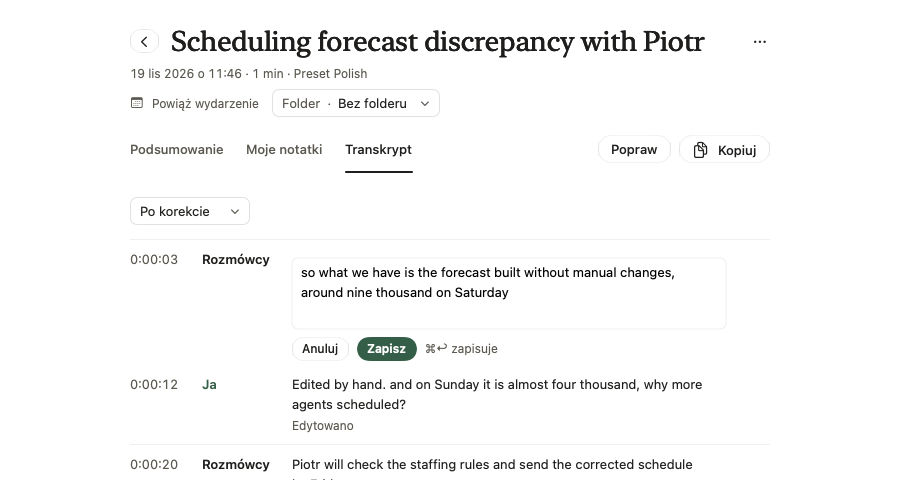
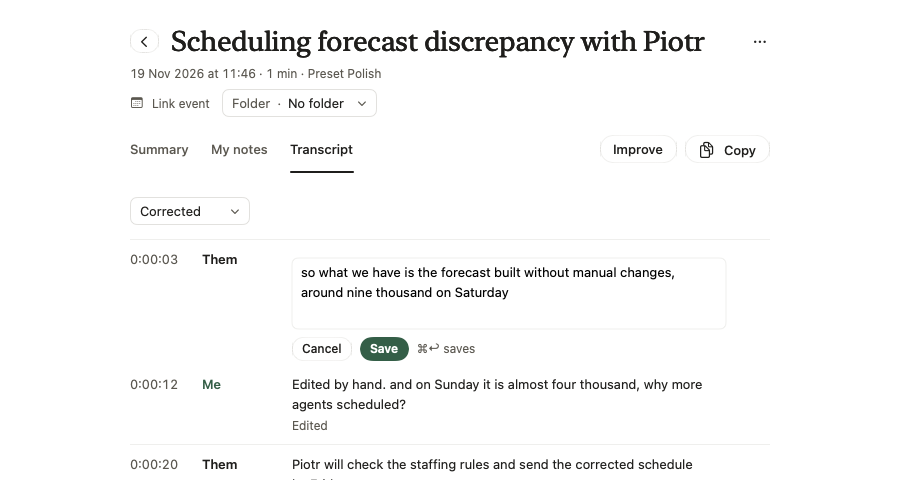
docs: README po angielsku z naciskiem na język użytkownika (TASK-120)
README w jednym języku: angielski, z sekcją o wyborze języka (15 języków
w presecie, osobny język notatki, edytowalna lista przerywników). Zrzuty
z angielskim interfejsem, spójne z angielską treścią danych przykładowych
i angielskim mottem.

diff --git a/README.md b/README.md
@@ -1,185 +1,180 @@
 <p align="center">
   <picture>
     <source media="(prefers-color-scheme: dark)" srcset="docs/readme/logo/logo-pionowe-ciemne.svg">
-    <img src="docs/readme/logo/logo-pionowe-jasne.svg" alt="Logo Yascribe przedstawia złote pióro między dwiema falami dźwięku i motto „What's it like to be a scribe?”" width="300">
+    <img src="docs/readme/logo/logo-pionowe-jasne.svg" alt="Yascribe logo: a golden quill between two sound waves, with the motto “What's it like to be a scribe?”" width="300">
   </picture>
 </p>
 
-# Yascribe: skryba, który rozumie po polsku
+# Yascribe: a scribe that understands your language
 
-Natywna aplikacja na macOS do notatek ze spotkań. Nagrywa rozmowę na Macu, sporządza transkrypcję po polsku, rozpoznaje rozmówców i przygotowuje notatkę. Możesz też zadawać pytania o jedno spotkanie lub całe archiwum i dyktować tekst w dowolnej aplikacji. **Do rozmowy nie dołącza żaden bot.**
+A native macOS app for meeting notes. It records the call on your Mac, transcribes it in the language you choose, tells speakers apart and writes the notes. You can ask questions about one meeting or your whole archive, and dictate text into any app. **No bot joins the call.**
 
-*English: a native macOS meeting-notes app that records system audio and microphone as two separate tracks, transcribes locally or via API, tells speakers apart, writes notes with a model you choose, answers questions about your meetings and does system-wide dictation. You can play any transcript segment and fix it by hand. The app UI is in Polish and English (Auto follows macOS); read-only access for AI agents via MCP is optional.*
-
-Sam wybierasz język i decydujesz, czy przetwarzać dane lokalnie, czy przez API. Aplikacja nagrywa dźwięk na dwóch osobnych ścieżkach i jest wolnym oprogramowaniem (GPL-3.0). To jednoosobowy projekt w trakcie rozwoju (wersje alfa 0.1.x). Interfejs jest po polsku i po angielsku, a dokumentacja w repozytorium jest po polsku.
+You choose the language and whether your data is processed locally or through an API. The app records audio on two separate tracks and is free software (GPL-3.0). It is a one-person project in active development (alpha releases 0.1.x). The app interface is available in English and Polish; the developer documentation in the repository is in Polish.
 
 <table>
   <tr>
     <td width="50%">
       <picture>
         <source media="(prefers-color-scheme: dark)" srcset="docs/readme/img/meetings-next-dark.png">
-        <img src="docs/readme/img/meetings-next-light.png" alt="Lista spotkań z kartą najbliższego spotkania z kalendarza, folderami i polem do zadawania pytań">
+        <img src="docs/readme/img/meetings-next-light.png" alt="Meeting list with the next calendar meeting, folders and a question field">
       </picture>
-      <b>Najbliższe spotkanie.</b> Na karcie spotkania z kalendarza Apple wystarczy kliknąć „Nagraj”. Na liście są foldery spotkań, a na dole pole „Zapytaj: wszystkie spotkania”.
+      <b>Your next meeting.</b> Click “Record” on the card for the next Apple Calendar meeting. The list shows meeting folders, with an “Ask about All meetings” field at the bottom.
     </td>
     <td width="50%">
       <picture>
         <source media="(prefers-color-scheme: dark)" srcset="docs/readme/img/meeting-summary-dark.png">
-        <img src="docs/readme/img/meeting-summary-light.png" alt="Notatka ze spotkania z zakładkami „Podsumowanie”, „Moje notatki” i „Transkrypt”">
+        <img src="docs/readme/img/meeting-summary-light.png" alt="Meeting notes with the “Summary”, “My notes” and “Transcript” tabs">
       </picture>
-      <b>Po otwarciu spotkania od razu widzisz notatkę.</b> Z podsumowania dowiesz się, kto odpowiada za każde zadanie i z czego ono wynika. „Kopiuj” kopiuje notatkę, a „Popraw…” pozwala wygenerować ją ponownie innym modelem.
+      <b>Open a meeting and see the notes right away.</b> The summary shows who owns each task and where it came from. “Copy” copies the notes, and “Improve…” regenerates them with a different model.
     </td>
   </tr>
   <tr>
     <td width="50%">
       <picture>
         <source media="(prefers-color-scheme: dark)" srcset="docs/readme/img/speakers-transcript-dark.png">
-        <img src="docs/readme/img/speakers-transcript-light.png" alt="Transkrypcja z rozmówcami oznaczonymi kolorami i listą uczestników „Kto to jest?”">
+        <img src="docs/readme/img/speakers-transcript-light.png" alt="Transcript with color-coded speakers and the “Who is this?” list of participants">
       </picture>
-      <b>Kto mówi?</b> Każdy rozmówca ma numer i kolor. Kliknij jego oznaczenie, by otworzyć listę „Kto to jest?” z uczestnikami z kalendarza i osobami z poprzednich spotkań.
+      <b>Who is speaking?</b> Each speaker has a number and a color. Click the label to open “Who is this?” with calendar attendees and people from earlier meetings.
     </td>
     <td width="50%">
       <picture>
         <source media="(prefers-color-scheme: dark)" srcset="docs/readme/img/speakers-summary-dark.png">
-        <img src="docs/readme/img/speakers-summary-light.png" alt="Notatka z imionami rozmówców, które można kliknąć, w tych samych kolorach co w transkrypcji">
+        <img src="docs/readme/img/speakers-summary-light.png" alt="Notes with clickable speaker names in the same colors as in the transcript">
       </picture>
-      <b>Imiona także w notatce.</b> W notatce widać imiona przypisane rozmówcom. Gdy zmienisz imię, zmiana od razu pojawi się w notatce, kopii i archiwum, bez ponownego generowania notatki.
+      <b>Names in the notes, too.</b> The notes show the names you assigned to the speakers. Rename someone and the change appears at once in the notes, the copy and the archive, without regenerating anything.
     </td>
   </tr>
   <tr>
     <td width="50%">
       <picture>
         <source media="(prefers-color-scheme: dark)" srcset="docs/readme/img/transcript-edit-dark.png">
-        <img src="docs/readme/img/transcript-edit-light.png" alt="Transkrypt z otwartym edytorem wypowiedzi i przyciskami „Anuluj” i „Zapisz” oraz wypowiedzią oznaczoną „Edytowano”">
+        <img src="docs/readme/img/transcript-edit-light.png" alt="Transcript with an open segment editor, “Cancel” and “Save” buttons, and a segment marked “Edited”">
       </picture>
-      <b>Odsłuch i ręczna poprawka.</b> Najedź na wypowiedź i kliknij ▶, by odsłuchać dokładnie ten fragment nagrania. Kliknięcie ołówka otwiera edytor. Poprawiona wypowiedź ma oznaczenie „Edytowano”, a surowy zapis pozostaje bez zmian.
+      <b>Listen and fix by hand.</b> Hover over a segment and click ▶ to hear exactly that part of the recording. Click the pencil to edit the text. Your fix is marked “Edited”, and the raw transcript stays untouched.
     </td>
     <td width="50%">
       <picture>
         <source media="(prefers-color-scheme: dark)" srcset="docs/readme/img/dictionary-suggestions-dark.png">
-        <img src="docs/readme/img/dictionary-suggestions-light.png" alt="Słownik z kartą „Sugestie” i przyciskami „Ignoruj” i „Dodaj”">
+        <img src="docs/readme/img/dictionary-suggestions-light.png" alt="Dictionary with a “Suggestions” card and “Ignore” and “Add” buttons">
       </picture>
-      <b>Sugestie do słownika.</b> Jeśli korekta kilka razy zamienia to samo słowo na termin ze słownika, aplikacja proponuje dodać je jako alias. Kliknij „Dodaj” albo „Ignoruj”. Odrzucone sugestie nie wracają.
+      <b>Dictionary suggestions.</b> When the correction model keeps changing the same word to a dictionary term, the app suggests adding it as an alias. Click “Add” or “Ignore”. Ignored suggestions do not come back.
     </td>
   </tr>
 </table>
 
-*Dane na zrzutach są przykładowe.*
+*The screenshots show sample data.*
 
-## Obsługa języka polskiego
+## Your language, not just English
 
-Gotowe narzędzia dobrze radzą sobie z angielskim. Język polski zwykle wymaga trybu wielojęzycznego, w którym model sam rozpoznaje język. Czasem się myli i potrafi zapisać polską rozmowę cyrylicą. W Yascribe **sam wskazujesz modelowi język**, a automatyczne wykrywanie służy tylko jako opcja awaryjna.
+Most tools work well in English. Other languages usually need a multilingual mode in which the model guesses the language. Sometimes it guesses wrong, and a Polish call ends up written in Cyrillic. In Yascribe, **you tell the model which language to use**. Automatic detection is only a fallback for mixed-language meetings.
 
-- **Wybór języka.** Preset określa język oraz modele do transkrypcji, korekty i tworzenia notatki, dzięki czemu wszystkie etapy korzystają z jednego ustawienia języka. Gdy zaczynasz nagrywać, widzisz oznaczenie „Polish · PL”.
-- **Usuwanie polskich przerywników.** Korekta usuwa z transkrypcji „yyy”, „mhm” i podobne przerywniki. Surowy zapis pozostaje bez zmian.
-- **Modele obsługujące polski.** Parakeet TDT v3 (483 MB) i Parakeet Ultra (632 MB) działają w całości na Macu, bez dostępu do sieci.
-- **Nazwy własne i odmiana.** Do słownika możesz dodać własne terminy i aliasy. Pomaga poprawnie zapisywać nazwy także w odmienionych formach. Aplikacja uwzględnia terminy ze słownika i uczestników z kalendarza w poleceniach do korekty i tworzenia notatki. Gdy model korekty kilka razy poprawia ten sam błąd, aplikacja proponuje nowy alias.
-- **Sprawdzanie liczb.** Korekta ma zachować sens wypowiedzi. W notatce pojawia się ostrzeżenie, jeśli zawiera liczbę, której nie było w transkrypcji.
+- **One language setting.** A preset sets the language and the models for transcription, correction and notes, so every step uses the same language. You can pick from 15 languages, including English, Polish, German, French, Spanish and Italian. The notes can be written in a different language than the meeting. When you start recording, you see the preset language, for example “Polish · PL”.
+- **Filler sounds removed.** Correction removes sounds like “um”, “uh” or the Polish “yyy” and “mhm”. You can edit the list. The raw transcript stays untouched.
+- **Local multilingual models.** Parakeet TDT v3 (483 MB) and Parakeet Ultra (632 MB) run entirely on your Mac, with no network access.
+- **Names and inflected forms.** Add your own terms and aliases to the dictionary. It helps spell names correctly, including inflected forms. The app passes dictionary terms and calendar attendees to the correction and notes prompts. When the correction model fixes the same mistake several times, the app suggests a new alias.
+- **Number check.** Correction must keep the meaning. The notes show a warning if they contain a number that was not in the transcript.
 
-## Jak to działa
+## How it works
 
-1. **Nagrywasz.** Aplikacja zapisuje dźwięk systemowy i dźwięk z mikrofonu w osobnych plikach, bo po zmiksowaniu obu ścieżek nie da się odzyskać czystego głosu. Każdą ścieżkę możesz wyciszyć jednym kliknięciem. Gdy wyciszysz mikrofon w Teams, aplikacja wyciszy również jego ścieżkę w nagraniu.
-2. **Transkrybujesz.** Możesz użyć lokalnego modelu Parakeet lub skorzystać z API (OpenRouter, ElevenLabs Scribe v2, oMLX z modelem Whisper lub Qwen3-ASR albo dowolnego punktu końcowego zgodnego z OpenAI). Przed transkrypcją aplikacja usuwa echo głośników ze ścieżki mikrofonu, dzięki czemu nie przypisuje głosów innych rozmówców do „Ja”. Jeśli transkrypcja się przerwie, aplikacja wznawia ją od miejsca przerwania.
-3. **Rozpoznajesz rozmówców.** Scribe v2 sam rozróżnia rozmówców. Na Macu robi to lokalny model, a w chmurze możesz też użyć Mistrala. Imiona przypisujesz rozmówcom jednym kliknięciem.
-4. **Poprawiasz.** Model usuwa przerywniki, a słownik poprawia nazwy własne. Aplikacja dzieli transkrypcje długich spotkań na fragmenty, które mieszczą się w oknie kontekstowym modelu. Opcja „Popraw…” pozwala powtórzyć korektę innym modelem. W transkrypcie możesz odsłuchać każdą wypowiedź i poprawić ją ręcznie. Aplikacja uwzględnia ręczne poprawki w kopii, wyszukiwaniu i ponownie wygenerowanej notatce.
-5. **Dostajesz notatkę.** Aplikacja tworzy ją na podstawie szablonu z własnymi sekcjami i kontekstu spotkania. Model możesz wybrać osobno dla każdego spotkania. W sekcji „Ustawienia” możesz zmienić polecenia do korekty i tworzenia notatki.
-6. **Pytasz.** W polu „Zapytaj” możesz zadawać pytania o jedno spotkanie, folder lub całe archiwum. Odpowiedzi zawierają odnośniki do źródeł. Historię rozmów otworzysz przyciskiem „Poprzednie rozmowy”.
+1. **Record.** The app saves system audio and microphone audio to separate files, because a mixed recording cannot be split back into clean voices. You can mute each track with one click. When you mute your microphone in Teams, the app mutes its track in the recording too.
+2. **Transcribe.** Use the local Parakeet model or an API: OpenRouter, ElevenLabs Scribe v2, oMLX with Whisper or Qwen3-ASR, or any OpenAI-compatible endpoint. Before transcription the app removes speaker echo from the microphone track, so other people's voices are not attributed to “Me”. If transcription stops, the app resumes where it left off.
+3. **Tell speakers apart.** Scribe v2 separates speakers on its own. On your Mac a local model does it, and in the cloud you can also use Mistral. Assign names to speakers with one click.
+4. **Correct.** A model removes filler sounds, and the dictionary fixes names. The app splits long meetings into parts that fit the model's context window. “Improve…” repeats the correction with a different model. In the transcript you can listen to any segment and fix it by hand. Your fixes are used in the copy, in search and when you regenerate the notes.
+5. **Get the notes.** The app writes them from a template with your own sections and from the meeting context. You can choose the model for each meeting. In “Settings” you can edit the correction and notes prompts.
+6. **Ask.** In the “Ask” field you can ask about one meeting, a folder or the whole archive. Answers link to their sources. Earlier conversations are under “Past chats”.
 
-Gdy kończy się rozmowa w Teams, w panelu nagrywania pojawia się pytanie „Spotkanie się skończyło?”. Po 5 sekundach bez odpowiedzi aplikacja kończy nagranie. „Kontynuuj” przerywa odliczanie.
+When a Teams call ends, the recording panel asks “Meeting ended?”. With no answer within 5 seconds, the app stops recording. “Continue” cancels the countdown.
 
-**Dyktowanie.** Aby dyktować tekst do dowolnej aplikacji, przytrzymaj lub naciśnij klawisz przypisany do skrótu globalnego (domyślnie Fn). Dyktowanie korzysta z tego samego modelu transkrypcji, słownika i filtra przerywników. Korekta jest opcjonalna, a historia zawiera wyłącznie tekst.
+**Dictation.** To dictate into any app, hold or press the global shortcut key (Fn by default). Dictation uses the same transcription model, dictionary and filler filter. Correction is optional, and the history keeps only text.
 
-**Język interfejsu.** Przycisk z globusem obok przełącznika jasnego i ciemnego motywu pozwala wybrać „Polski”, „English” lub „Automatycznie” (jak w macOS). Zmiana działa po ponownym uruchomieniu aplikacji.
+**Interface language.** The globe button next to the light/dark switch lets you choose “English”, “Polski” or “Auto” (follows macOS). The change takes effect after the app restarts.
 
 <table>
   <tr>
     <td width="50%">
       <picture>
         <source media="(prefers-color-scheme: dark)" srcset="docs/readme/img/pill-expanded-dark.png">
-        <img src="docs/readme/img/pill-expanded-light.png" alt="Panel nagrywania z poziomami dźwięku i przyciskami „Wycisz” dla dwóch ścieżek">
+        <img src="docs/readme/img/pill-expanded-light.png" alt="Recording panel with audio levels and “Mute” buttons for both tracks">
       </picture>
-      <b>Panel nagrywania.</b> Panel pokazuje nazwę urządzenia oraz osobno poziom dźwięku systemowego i mikrofonu. Każdą ścieżkę możesz wyciszyć, a mikrofon możesz zmienić w trakcie nagrania.
+      <b>Recording panel.</b> The panel shows the device name and separate levels for system audio and the microphone. You can mute each track and switch the microphone during the recording.
     </td>
     <td width="50%">
       <picture>
         <source media="(prefers-color-scheme: dark)" srcset="docs/readme/img/pill-offer-call-dark.png">
-        <img src="docs/readme/img/pill-offer-call-light.png" alt="Panel z propozycją nagrania rozmowy w Teams">
+        <img src="docs/readme/img/pill-offer-call-light.png" alt="Panel offering to record a Teams call">
       </picture>
-      <b>Nagrywanie rozmów w Teams.</b> Gdy aplikacja wykryje rozmowę, proponuje rozpoczęcie nagrania z wybranym presetem.
+      <b>Recording Teams calls.</b> When the app detects a call, it offers to start recording with the preset you choose.
     </td>
   </tr>
   <tr>
     <td width="50%">
       <picture>
         <source media="(prefers-color-scheme: dark)" srcset="docs/readme/img/templates-builtin-dark.png">
-        <img src="docs/readme/img/templates-builtin-light.png" alt="Edytor szablonu z listą sekcji notatki">
+        <img src="docs/readme/img/templates-builtin-light.png" alt="Template editor with the list of note sections">
       </picture>
-      <b>Szablony notatek.</b> Możesz wybrać szablon Standard, 1:1, cotygodniówkę lub rozmowę z klientem albo utworzyć własny. Opis każdej sekcji określa, co model ma w niej zapisać.
+      <b>Note templates.</b> Choose Standard, 1:1, a weekly team meeting or a customer call, or create your own. The description of each section tells the model what to write there.
     </td>
     <td width="50%">
       <picture>
         <source media="(prefers-color-scheme: dark)" srcset="docs/readme/img/settings-on-this-mac-dark.png">
-        <img src="docs/readme/img/settings-on-this-mac-light.png" alt="Ustawienia z modelami Parakeet na Macu i listą dostawców">
+        <img src="docs/readme/img/settings-on-this-mac-light.png" alt="Settings with Parakeet models on this Mac and the list of providers">
       </picture>
-      <b>Modele lokalne i w chmurze.</b> Do wyboru masz Parakeet na Macu, OpenRouter, ElevenLabs, Mistral, Ollama, llama.cpp, oMLX i własny punkt końcowy zgodny z OpenAI. Eksperymentalnie możesz też skorzystać z Codexa i Claude Code po zalogowaniu się na własne konto.
+      <b>Local and cloud models.</b> Choose from Parakeet on your Mac, OpenRouter, ElevenLabs, Mistral, Ollama, llama.cpp, oMLX and any OpenAI-compatible endpoint. As an experiment, you can also use Codex and Claude Code with your own account.
     </td>
   </tr>
 </table>
 
-## Twoje dane
+## Your data
 
-- **Bez bota.** Rozmowę nagrywasz na swoim Macu. Pozostali uczestnicy nie widzą na liście żadnej dodatkowej osoby.
-- **Wszystko lokalnie.** Aplikacja zapisuje nagrania, transkrypcje i notatki w `~/Library/Application Support/Yascribe`. Możesz transkrybować nagrania za pomocą Parakeeta, rozpoznawać rozmówców na Macu i tworzyć notatki za pomocą Ollamy, llama.cpp lub oMLX bez dostępu do sieci. Aplikacja wysyła do chmury tylko te dane, które wybierzesz. Przy wyborze dostawcy wskazuje, dokąd wyśle transkrypcję.
-- **Czas przechowywania nagrań.** Możesz włączyć automatyczne usuwanie nagrań po wybranym czasie, na przykład po 30 dniach. Aplikacja zachowuje transkrypcje i notatki, a nagrania usuwa dopiero po zakończeniu transkrypcji.
-- **Klucze API** wpisujesz w aplikacji, która zapisuje je w pęku kluczy macOS. Codex i Claude Code mają osobne logowanie. Yascribe nie przechowuje ich kluczy.
+- **No bot.** You record the call on your own Mac. Other participants see no extra attendee.
+- **Everything stays local.** Recordings, transcripts and notes are stored in `~/Library/Application Support/Yascribe`. You can transcribe with Parakeet, tell speakers apart on your Mac and write notes with Ollama, llama.cpp or oMLX without any network access. The app sends to the cloud only what you choose, and when you pick a provider it shows where the transcript will go.
+- **Recording retention.** You can have recordings deleted automatically after a set time, for example 30 days. Transcripts and notes are kept, and recordings are deleted only after transcription has finished.
+- **API keys** are entered in the app and stored in the macOS keychain. Codex and Claude Code use their own sign-in. Yascribe does not store their keys.
 
-## Agenci AI (MCP)
+## AI agents (MCP)
 
-Yascribe ma serwer MCP na stdio, więc Claude Code, Codex, OpenCode, Hermes i pi mogą czytać Twoje spotkania:
-listę z wyszukiwaniem, transkrypt i notatkę, a także całe spotkanie jako markdown. Serwer tylko czyta i nic
-nie wychodzi z niego bez Twojej zgody: włącz dostęp w **Ustawienia → Dostęp agentów (MCP)**. Instrukcja podłączenia
-dla każdego klienta: [docs/readme/mcp.md](docs/readme/mcp.md).
+Yascribe includes a stdio MCP server, so Claude Code, Codex, OpenCode, Hermes and pi can read your meetings: the list with search, the transcript and the notes, or a whole meeting as Markdown. The server is read-only, and nothing leaves it without your consent: turn access on in **Settings → Agent access (MCP)**. Setup for each client (in Polish): [docs/readme/mcp.md](docs/readme/mcp.md).
 
-## Instalacja
+## Installation
 
-1. Pobierz `Yascribe-<wersja>.zip` z [Releases](https://github.com/sharezz1/yascribe/releases/latest), rozpakuj archiwum i przeciągnij `Yascribe.app` do `/Applications`.
-2. Aplikacja jest podpisana certyfikatem Apple Development. **Nie ma jeszcze notaryzacji**, więc przy pierwszym uruchomieniu macOS poprosi o zgodę (Ustawienia systemowe → Prywatność i ochrona → „Otwórz mimo to”). Notaryzacja jest w planach.
-3. Przy pierwszym nagraniu udziel dostępu do mikrofonu, dźwięku systemowego i opcjonalnie do kalendarza. Synchronizacja wyciszenia z Teams i dyktowanie wymagają też uprawnienia „Dostępność”, a skrót do dyktowania dodatkowo uprawnienia „Monitorowanie wprowadzania”.
-4. Aktualizacje sprawdzisz w menu Yascribe → „Sprawdź uaktualnienia…” lub w menu na pasku. Aplikacja instaluje aktualizację dopiero po kliknięciu i nigdy nie przerywa trwającego nagrania.
-5. Po każdym uruchomieniu aplikacja sprawdza połączenie ze skonfigurowanymi dostawcami. Pomija własne punkty końcowe, żeby nie uruchamiać płatnego serwera.
+1. Download `Yascribe-<version>.zip` from [Releases](https://github.com/sharezz1/yascribe/releases/latest), unzip it and drag `Yascribe.app` to `/Applications`.
+2. The app is signed with an Apple Development certificate. **It is not notarized yet**, so on first launch macOS asks for permission (System Settings → Privacy & Security → “Open Anyway”). Notarization is planned.
+3. On the first recording, allow access to the microphone, system audio and, optionally, the calendar. Mute sync with Teams and dictation also need the “Accessibility” permission, and the dictation shortcut also needs “Input Monitoring”.
+4. Check for updates in Yascribe → “Check for Updates…” or in the menu bar menu. The app installs an update only when you click it and never interrupts a recording.
+5. After each launch the app tests the connection to your configured providers. It skips custom endpoints, so it does not wake up a paid server.
 
-Aplikacja wymaga macOS 27.
+Requires macOS 27.
 
-## Co dalej
+## Roadmap
 
-**Już działa.** Nagrywanie na dwóch ścieżkach z wyciszaniem, wykrywaniem końca spotkania i zmianą mikrofonu w trakcie nagrania · usuwanie echa głośników ze ścieżki mikrofonu · transkrypcja lokalna (Parakeet v3, Parakeet Ultra) i przez API · odsłuch wypowiedzi i ręczna poprawka transkryptu · rozpoznawanie rozmówców i wyświetlanie ich imion w transkrypcji i notatce · korekta z filtrem przerywników i własnymi poleceniami · słownik z obsługą odmiany, importu i eksportu oraz sugestiami aliasów z korekty · notatki z szablonów i wybór modelu dla każdego spotkania · pytania w polu „Zapytaj” o spotkanie, folder lub archiwum · dyktowanie do dowolnej aplikacji · modele lokalne (Ollama, llama.cpp, oMLX, własny punkt końcowy) i agenci CLI (Codex, Claude Code) · nagrywanie z użyciem słuchawek Bluetooth · kalendarz Apple i proponowanie nagrania po wykryciu rozmowy w Teams · foldery, krótki opis spotkania („W skrócie”) oraz archiwum z wyszukiwarką i ustawieniem czasu przechowywania nagrań · interfejs po polsku i po angielsku · jasny i ciemny motyw · aktualizacje jednym kliknięciem · narzędzie `yascribe-cli` do transkrypcji, korekty, tworzenia notatek i rozpoznawania rozmówców w terminalu · serwer MCP dla agentów AI (lista spotkań, transkrypt, notatka i eksport do markdown).
+**Already works.** Two-track recording with muting, end-of-meeting detection and switching the microphone mid-recording · speaker echo removal from the microphone track · local (Parakeet v3, Parakeet Ultra) and API transcription · segment playback and manual transcript fixes · speaker detection with names in the transcript and the notes · correction with a filler filter and your own prompts · a dictionary with inflection, import and export, and alias suggestions from correction · notes from templates and a model choice per meeting · questions in “Ask” about a meeting, a folder or the archive · dictation into any app · local models (Ollama, llama.cpp, oMLX, a custom endpoint) and CLI agents (Codex, Claude Code) · recording with Bluetooth headphones · Apple Calendar and a recording offer when a Teams call is detected · folders, a short meeting “Overview”, and an archive with search and recording retention · English and Polish interface · light and dark theme · one-click updates · the `yascribe-cli` tool for transcription, correction, notes and speaker detection in the terminal · an MCP server for AI agents (meeting list, transcript, notes and Markdown export).
 
-**W kolejce**
+**Next up**
 
-- dodawanie aliasu do słownika przez kliknięcie słowa w transkrypcji oraz podpowiadanie słów lokalnemu modelowi (word boosting) po pomiarach,
-- transkrypcja na żywo i możliwość wznowienia nagrywania w ramach tej samej notatki,
-- kolejne lokalne modele transkrypcji,
-- przycisk nagrywania w menu na pasku.
+- adding a dictionary alias by clicking a word in the transcript, and word boosting for the local model after measurements,
+- live transcription and resuming a recording into the same note,
+- more local transcription models,
+- a record button in the menu bar menu.
 
-**Pomysły bez terminu.** Notaryzacja i Developer ID · Google Calendar, Outlook, Slack.
+**Ideas without a date.** Notarization and Developer ID · Google Calendar, Outlook, Slack.
 
-## Budowanie
+## Building
 
-Do zbudowania aplikacji wystarczą Command Line Tools (Swift 6.4). Xcode nie jest potrzebny.
+Command Line Tools (Swift 6.4) are enough. Xcode is not needed.
 
 ```
 swift package --disable-keychain resolve
-scripts/run.sh          # buduje i uruchamia z danymi w .devdata/
-scripts/test.sh         # jedyny sposób uruchamiania testów
-scripts/bundle.sh       # składa .build/Yascribe.app
+scripts/run.sh          # builds and runs with data in .devdata/
+scripts/test.sh         # the only way to run the tests
+scripts/bundle.sh       # assembles .build/Yascribe.app
 ```
 
-## Nazwa i znak
+## Name and logo
 
-Motto „What's it like to be a scribe?” nawiązuje do monologu skryby z filmu „Asterix i Obelix: Misja Kleopatra”. Pióro symbolizuje zapis, a fale po bokach przedstawiają dwie ścieżki nagrania, jedną dla dźwięku systemowego i drugą dla mikrofonu.
+The motto “What's it like to be a scribe?” refers to the scribe's monologue in the film “Asterix & Obelix: Mission Cleopatra”. The quill stands for writing, and the waves on both sides are the two recording tracks: one for system audio and one for the microphone.
 
-## Licencja
+## License
 
-Yascribe jest wolnym oprogramowaniem na licencji **GNU GPL v3** (plik [LICENSE](LICENSE)). Licencje zależności i informacje o ich autorach znajdziesz w pliku [THIRD_PARTY_NOTICES.md](THIRD_PARTY_NOTICES.md).
+Yascribe is free software under the **GNU GPL v3** (see [LICENSE](LICENSE)). Dependency licenses and credits are in [THIRD_PARTY_NOTICES.md](THIRD_PARTY_NOTICES.md).
 
 Copyright (C) 2026 Michał Przytulski
